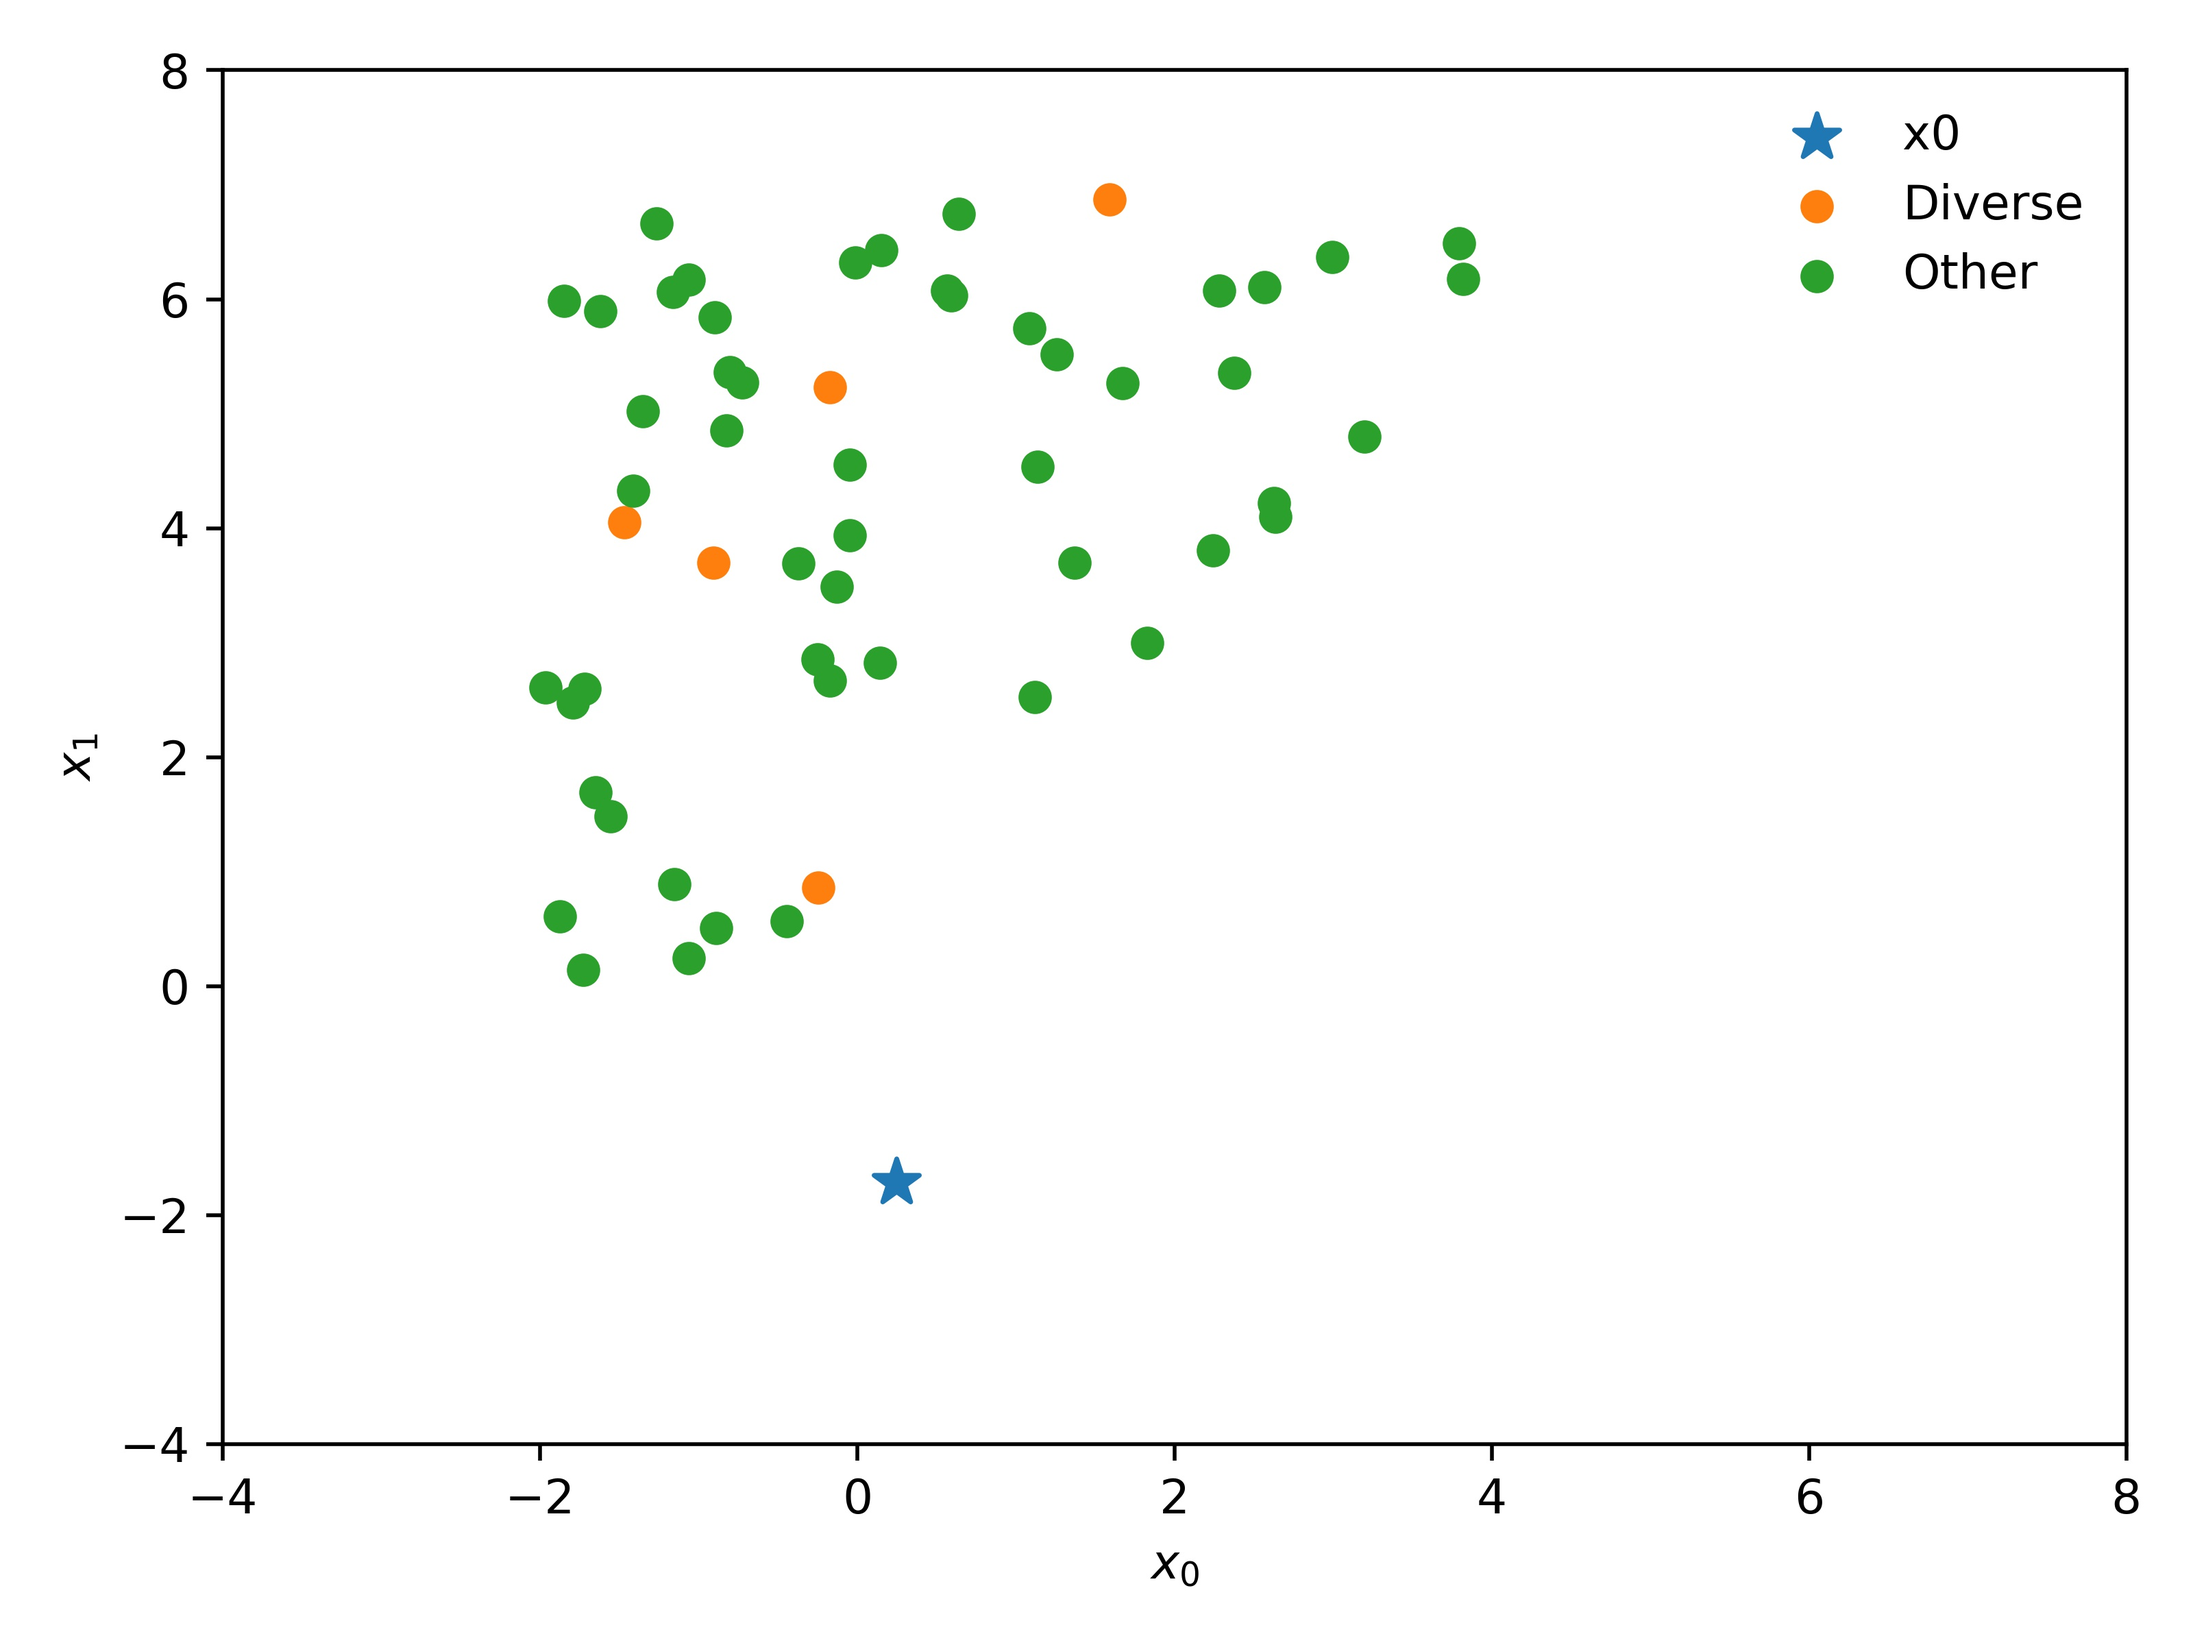
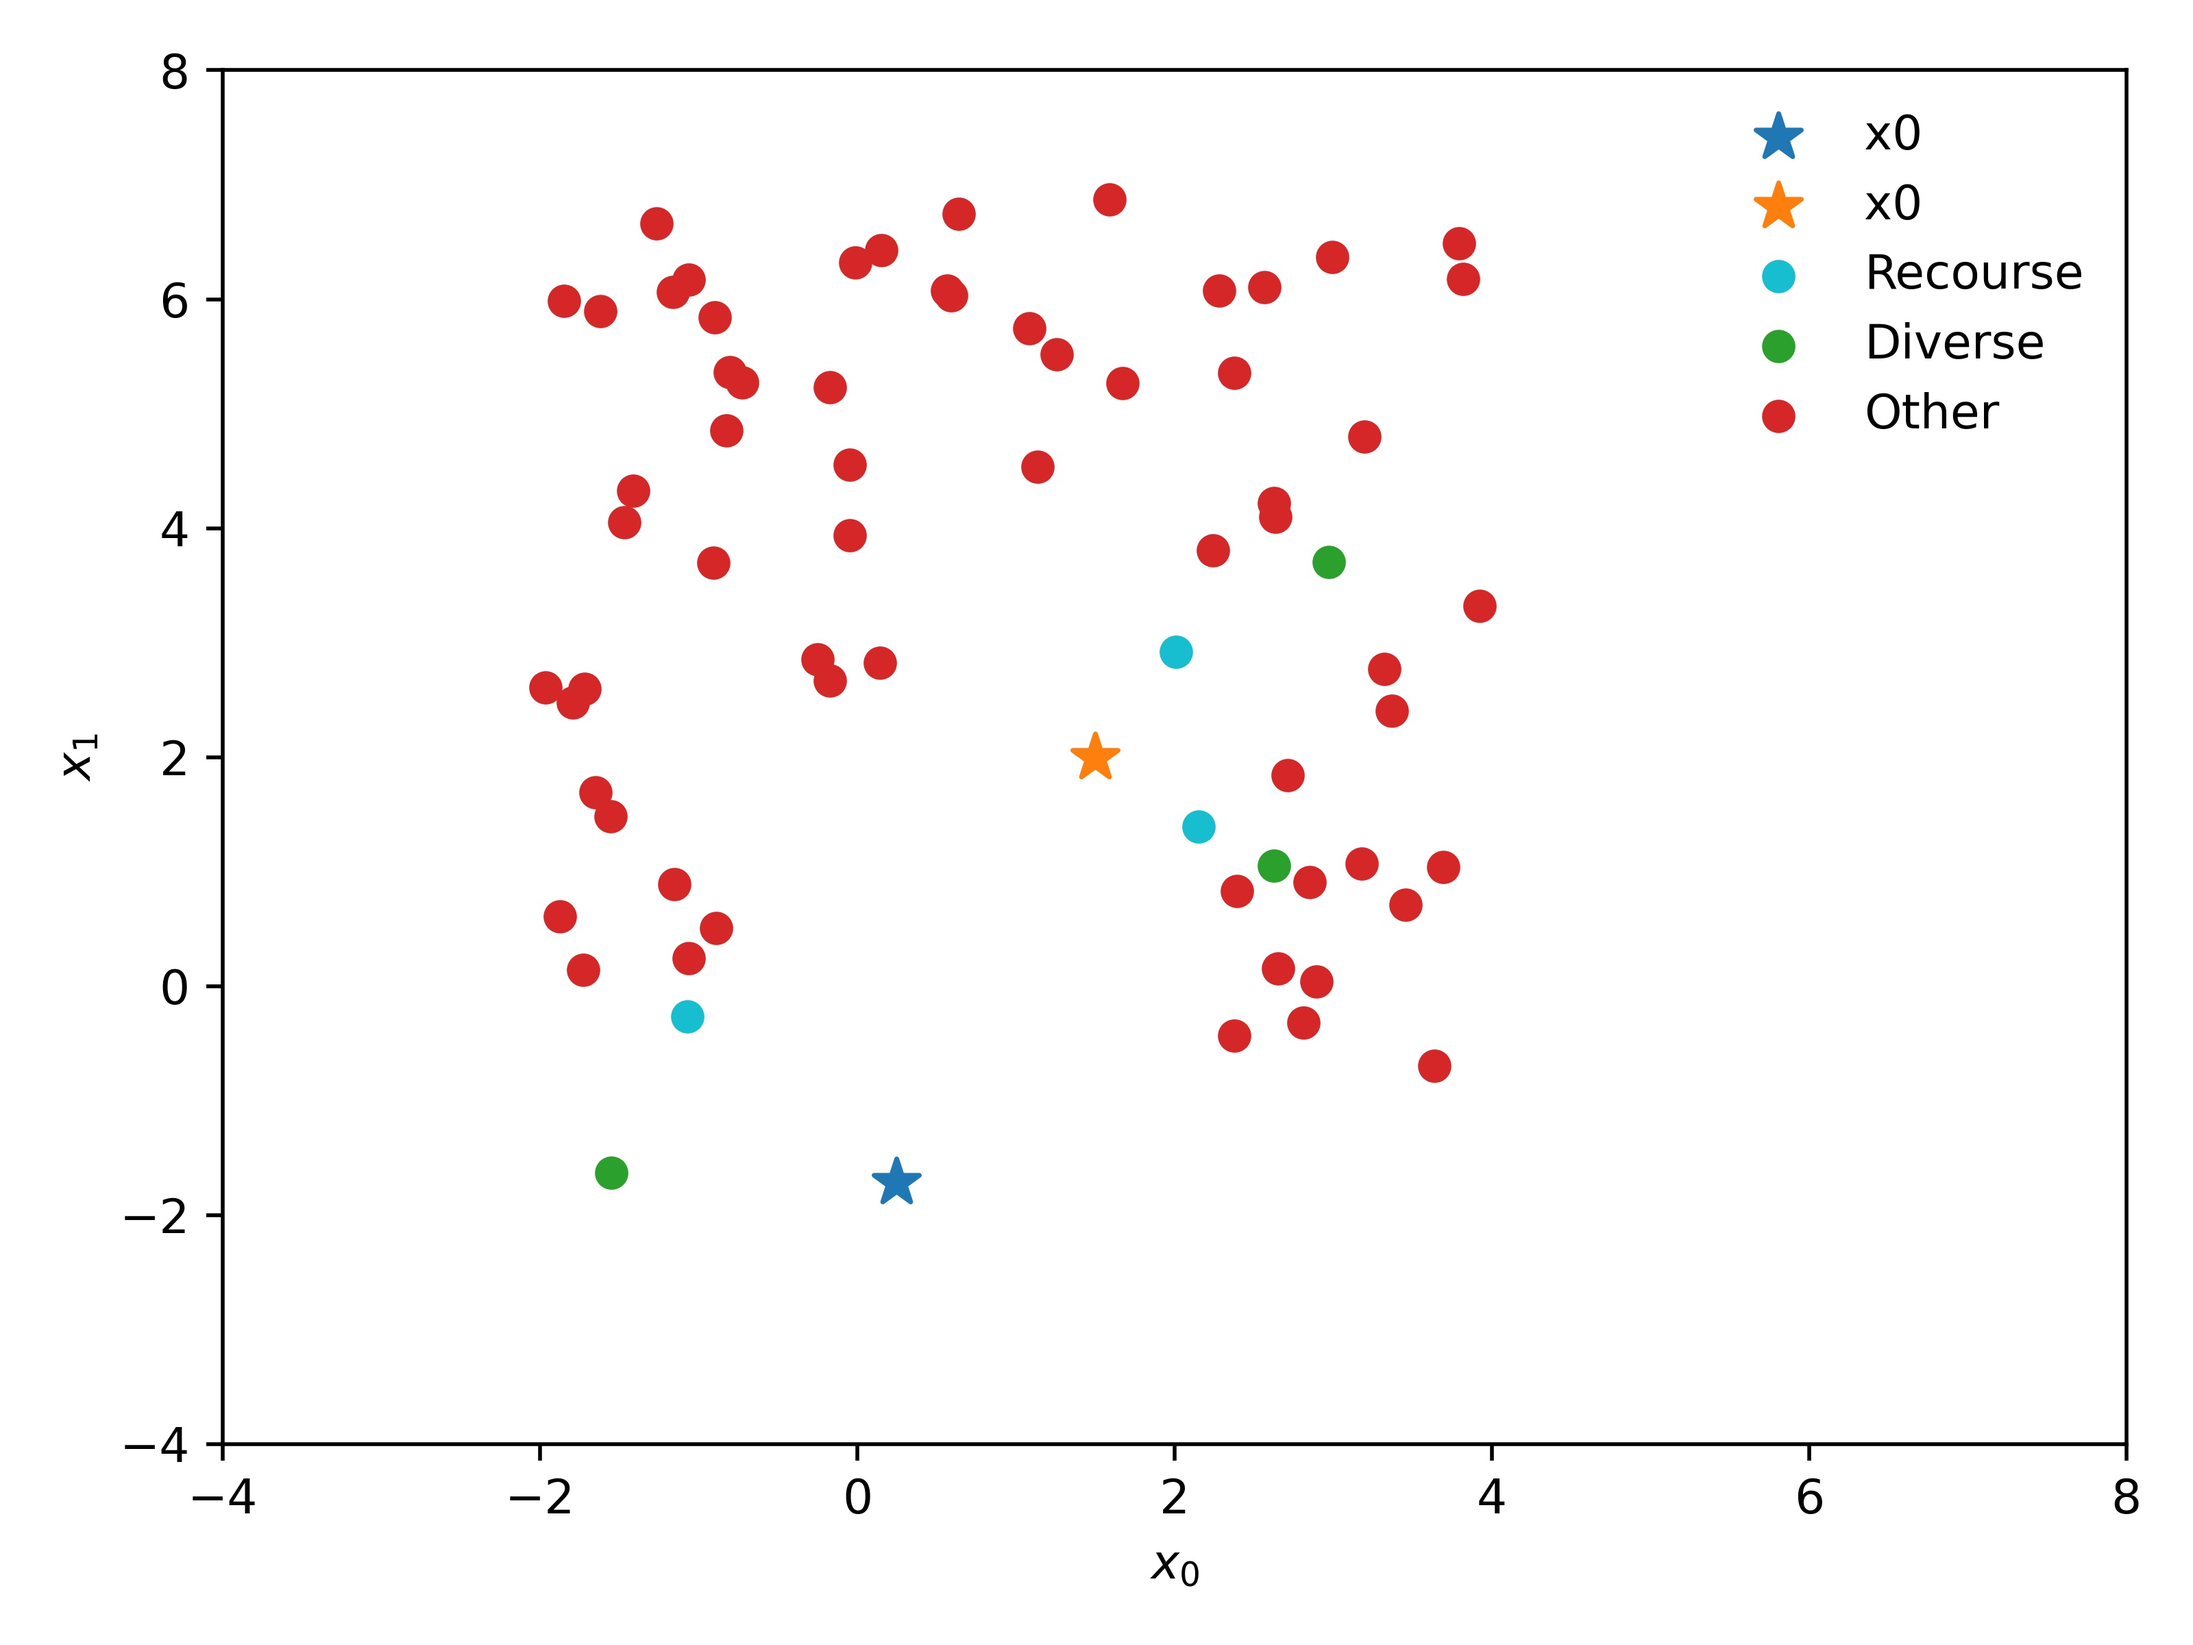
push code

diff --git a/libs/solver.py b/libs/solver.py
@@ -1,5 +1,6 @@
 import numpy as np
 from scipy.linalg import eigh
+from sklearn.neighbors import NearestNeighbors
 
 import gurobipy as grb
 
@@ -7,7 +8,8 @@ import gurobipy as grb
 class Solver(object):
     """ Class for optimization problem """
 
-    def __init__(self, data, labels, theta=0.5, kernel_width=1):
+    def __init__(self, model, data, labels, theta=0.5, kernel_width=1):
+        self.model = model
         self.data = data
         self.labels = labels
         self.theta = theta
@@ -16,7 +18,7 @@ class Solver(object):
         self.data_hat = self.data[self.labels == 1]
         self.N, self.dim = self.data_hat.shape
 
-    def quad(self, S, d, k):
+    def quad(self, S, d, k, cost_diverse=True):
         """ Solve quadratic program with gurobi
         """
         dim = len(d)
@@ -32,11 +34,18 @@ class Solver(object):
         z_sub = model.addMVar(1, vtype=grb.GRB.CONTINUOUS, name="zsub")
 
         # Set objectives
-        obj = (1 - self.theta) * d @ z - self.theta * z_sub
+        if cost_diverse:
+            obj = (1 - self.theta) * d @ z - self.theta * z_sub
+        else:
+            obj = -z_sub
         model.setObjective(obj, grb.GRB.MINIMIZE)
 
-         # Constraints
-        model.addConstr(z.sum() == k)
+        # Constraints
+        if cost_diverse:
+            model.addConstr(z.sum() == k)
+        else:
+            for i in range(0, k * k, k):
+                model.addConstr(z[i:i+k].sum() == 1)
         model.addConstr(z_sub == z @ S @ z)
 
         # Optimize
@@ -125,10 +134,10 @@ class Solver(object):
 
         # Best response and dp
         if best_response:
-            z_p = s.best_response(w, v, d, k=2*k, period=period)
+            z_p = self.best_response(w, v, d, k=2*k, period=period)
         else:
-            z_p = s.dp(w, v, d, k=2*k, step_size=1, period=period)
-
+            z_p = self.dp(w, v, d, k=2*k, step_size=1, period=period)
+        
         z_prev = np.zeros(len(d))
         for i in range(period):
             z_prev = np.logical_or(z_prev, z_p[i, :])
@@ -140,7 +149,41 @@ class Solver(object):
         z = self.quad(S, d, k)
 
         idx = idx_l[np.where(z == 1)[0]]
-        X_diverse = self.data[self.labels == 1]
-        X_other = X[y == 1][np.where(z_prev == 0)[0]]
+        X_diverse = self.data[self.labels == 1][idx]
+        X_other = self.data[self.labels == 1][np.where(z_prev == 0)[0]]
 
         return idx, X_diverse, X_other
+
+    def generate_recourse(self, x0, k, period=20, best_response=True):
+        idx, X_diverse, X_other = self.solve(x0, k, period, best_response)
+
+        knn = NearestNeighbors(n_neighbors=k)
+        knn.fit(self.data[self.labels == 0])
+        
+        recourse_set = []
+        for i in range(X_diverse.shape[0]):
+            idx = knn.kneighbors(X_diverse[i].reshape(1, -1), return_distance=False)
+            recourse_set_i = []
+            
+            for j in range(k):
+                best_x_b = None
+                best_dist = np.inf
+                
+                lambd_list = np.linspace(0, 1, 100)
+                for lambd in lambd_list:
+                    x_b = (1 - lambd) * X_diverse[i] + lambd * self.data[self.labels == 0][idx[0][j]]
+                    label = self.model.predict(x_b)
+                    if label == 1:
+                        dist = np.linalg.norm(x0 - x_b)
+                        if dist < best_dist:
+                            best_x_b = x_b
+                            best_dist = dist
+                
+                recourse_set_i.append(best_x_b)
+            recourse_set += recourse_set_i
+        
+        recourse_set = np.array(recourse_set)
+        A, S, d = self.compute_matrix(x0, recourse_set)
+        recourse_set = recourse_set[self.quad(S, d, k, cost_diverse=False) == 1]
+
+        return recourse_set, X_diverse, X_other

diff --git a/debug_solver_2.py b/debug_solver_2.py
@@ -1,4 +1,5 @@
 import os
+import pickle
 import numpy as np
 import matplotlib.pyplot as plt
 
@@ -6,6 +7,7 @@ from libs.solver import Solver
 from utils import helpers
 from utils.transformer import get_transformer
 from expt.common import synthetic_params
+from classifiers.mlp import Net0
 
 
 # Get data
@@ -15,43 +17,50 @@ y = df['label'].to_numpy()
 X = df.drop('label', axis=1)
 X = transformer.transform(X)
 
+# Get model
+with open("results/run_0/checkpoints/mlp_synthesis_5.pickle", "rb") as f:
+    model = pickle.load(f)[0]
+y = model.predict(X)
+
 # Solver
-best_response = False
+best_response = True
 # theta_l = [0.1 * i for i in range(11)]
 theta_l = [1]
 # kernel_l = [0.1 * (i + 1) for i in range(21, 40)]
-kernel_l = [2.0]
+kernel_l = [0.5]
 for idx in range(len(theta_l)):
     for j in range(len(kernel_l)):
-        s = Solver(X, y, theta=1, kernel_width=kernel_l[j])
-        A, S, d = s.compute_matrix(np.array([1.5, 2]), X[y == 1])
-        w, v = s.find_eig(S)
+        s = Solver(model, X, y, theta=1, kernel_width=kernel_l[j])
+        recourse_set, X_diverse, X_other = s.generate_recourse(np.array([1.5, 2]), k=3)
+        # A, S, d = s.compute_matrix(np.array([1.5, 2]), X[y == 1])
+        # w, v = s.find_eig(S)
 
         # Best response or dp
-        if best_response:
-            z_p = s.best_response(w, v, d, k=5, period=20)
-        else:
-            z_p = s.dp(w, v, d, k=5, step_size=1, period=20)
+        # if best_response:
+        #     z_p = s.best_response(w, v, d, k=5, period=20)
+        # else:
+        #     z_p = s.dp(w, v, d, k=5, step_size=1, period=20)
     
-        z_prev = np.zeros(len(d))
+        # z_prev = np.zeros(len(d))
 
-        for i in range(20):
-            z_prev = np.logical_or(z_prev, z_p[i, :])
+        # for i in range(20):
+        #     z_prev = np.logical_or(z_prev, z_p[i, :])
     
-        idx_l = np.where(z_prev == 1)[0]
+        # idx_l = np.where(z_prev == 1)[0]
 
-        data = X[y == 1][np.where(z_prev == 1)[0]]
-        A, S, d = s.compute_matrix(X[0], data)
-        z = s.quad(S, d, 3)
-        idx = idx_l[np.where(z == 1)[0]]
+        # data = X[y == 1][np.where(z_prev == 1)[0]]
+        # A, S, d = s.compute_matrix(X[0], data)
+        # z = s.quad(S, d, 3)
+        # idx = idx_l[np.where(z == 1)[0]]
 
-        X_diverse = X[y == 1][idx]
-        X_other = X[y == 1][np.where(z_prev == 0)[0]]
+        # X_diverse = X[y == 1][idx]
+        # X_other = X[y == 1][np.where(z_prev == 0)[0]]
 
         # Plot
         fig, ax = plt.subplots()
         # ax.scatter(X[0][0], X[0][1], s=100, marker='*', label = 'x0')
         ax.scatter(1.5, 2, s=100, marker='*', label = 'x0')
+        ax.scatter(recourse_set[:, 0], recourse_set[:, 1], marker='o', c='#17becf', label = 'Recourse')
         ax.scatter(X_diverse[:, 0], X_diverse[:, 1], marker='o', label = 'Diverse')
         ax.scatter(X_other[:, 0], X_other[:, 1], marker='o', label = 'Other')
 
@@ -64,5 +73,5 @@ for idx in range(len(theta_l)):
 
         if not os.path.exists('results/figures/'):
             os.makedirs('results/figures/')
-        plt.savefig(f'results/figures/visualization_BR_{i}.jpg', dpi=500, transparent=True)
+        plt.savefig(f'results/figures/visualization_BR.jpg', dpi=500, transparent=True)
         plt.show()
